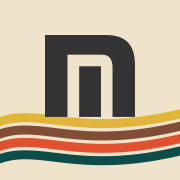
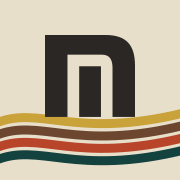
feat(design): move the palette to dark roast
Oxblood, forest, ochre and walnut on a deeper paper, replacing a
brighter set whose four-band ribbon read as adhesive car stripes rather
than print — the old mustard was a near-primary yellow and carried most
of that on its own.

Picked from three candidates rendered against the real homepage rather
than swatched in isolation.

- Every colour gained contrast headroom. Rust went from 3.05:1 to
  4.07:1, so display type no longer sits 0.05 above its floor, and the
  tightest deep moved 4.65 → 5.59
- --color-crate was a literal copy of --color-orange rather than a
  var() alias, so a palette change would have left it behind — and
  check:contrast validates crate on its own, so nothing would have
  caught it. Now aliased
- theme-color in Layout.astro and both colours in site.webmanifest are
  the only hardcoded hexes left in the project, because neither can read
  a CSS variable. check:contrast now asserts all three match
  --color-paper instead of trusting them to be updated by hand
- Regenerated the seven committed assets. Regenerating surfaced that
  build-og.mjs still drew the wordmark's full stop, which Logo.astro
  dropped — the share image had been stale since that change, since
  nothing regenerates it automatically

Changed region(s): [[0.0, 0.75, 1.0, 0.8611]]

diff --git a/src/styles/globals.css b/src/styles/globals.css
@@ -1,36 +1,47 @@
 @import "tailwindcss";
 
 @theme {
-  /* Warmer, earthier palette: rust, deep teal, mustard and brown on a lighter
-     paper. Paper is lighter than the original comp cream — partly to match the
-     newer mockup, and partly because at the old #f0dbb7 the rust only reached
-     2.87:1, below even the 3:1 large-text floor. Lightening the ground fixes
-     that without touching the brand colours themselves. */
-  --color-paper: #efe3cc;
-  --color-paper-tint: #f7f1e4;
-  --color-ink: #333333;
-  --color-red: #e0522f;
-  --color-blue: #0c4c49;
-  --color-gold: #e1b537;
-  --color-orange: #804d37;
-  --color-signal: #2c591c;
+  /* Dark roast: oxblood, forest, ochre and walnut on a slightly deeper paper.
+     Replaces a brighter set whose four-band ribbon read as adhesive car stripes
+     rather than print — the old mustard was a near-primary yellow and carried
+     most of that on its own.
+
+     The move also bought headroom everywhere. Rust went from 3.05:1 to 4.07:1,
+     so display type no longer sits 0.05 above its floor, and the deeps cleared
+     4.65 → 5.76. Verified by `pnpm check:contrast`. */
+  --color-paper: #e8dfcb;
+  --color-paper-tint: #f2ebdf;
+  --color-ink: #2b2724;
+  --color-red: #b8442a;
+  --color-blue: #14423f;
+  --color-gold: #c9a23a;
+  --color-orange: #6d4630;
+  --color-signal: #2f5423;
 
   /* Accessible counterparts, same hue and saturation, darkened until they clear
-     4.5:1 on paper. The brand colours are display colours: rust is 3.05:1 and
-     mustard 1.52:1 — fine for large type and fills, but they fail AA at label
-     size, and this design sets most of its text at label size. So: bright for
-     display type and graphics, deep for anything small.
+     4.5:1 on paper. The brand colours are display colours: ochre is 1.82:1 —
+     fine for large type and fills, but nowhere near AA at label size, and this
+     design sets most of its text at label size. So: bright for display type and
+     graphics, deep for anything small.
+
+     Rust now clears 4.5:1 on its own, so `red-deep` is a smaller step down than
+     it used to be — kept as its own token rather than aliased, because the two
+     still do different jobs and the display value is the one free to move if
+     the palette shifts again.
 
      Teal and brown already clear 4.5:1, so they are their own deep variants —
      aliased rather than duplicated so a change to one can't desync the other.
      Verified by `pnpm check:contrast`. */
-  --color-red-deep: #ae4024;
-  --color-gold-deep: #78611d;
+  --color-red-deep: #94331e;
+  --color-gold-deep: #67531f;
   --color-orange-deep: var(--color-orange);
   --color-blue-deep: var(--color-blue);
 
-  /* Ships the "handle with care" bar; paper on this is 5.45:1. */
-  --color-crate: #804d37;
+  /* Ships the "handle with care" bar; paper on this is 6.17:1. Aliased rather
+     than repeated: this used to be a literal copy of orange, so a palette
+     change could leave it behind — and the contrast check wouldn't have caught
+     it, because it validates crate against paper on its own. */
+  --color-crate: var(--color-orange);
 
   /* astro:fonts emits --font-anton / --font-jetbrains; map them onto Tailwind's
      font scale so `font-display` and `font-mono` resolve to the self-hosted faces. */

diff --git a/TODO.md b/TODO.md
@@ -48,10 +48,13 @@ undecided — think before doing.
 
 ## Visual direction
 
-- [ ] Consider making the colour palette a little less "amazon retro adhesive
-      car stripes" — **not done.** A palette change means re-running
-      `build:icons` and `build:og`, and `build:og` rasterises text with whatever
-      font the machine has, so the share image can shift. Wanted you in the room
+- [x] Consider making the colour palette a little less "amazon retro adhesive
+      car stripes" — went to **dark roast**: oxblood, forest, ochre and walnut
+      on a deeper paper, picked from three candidates shot against the real
+      homepage. Every colour gained contrast headroom; rust went from 3.05:1 to
+      4.07:1, so display type no longer sits 0.05 above its floor. Icons and the
+      share image regenerated. The ochre band is still the brightest thing on
+      the page — if it keeps reading as a stripe, that's the one token to pull
 - [x] Consider how to make the site a little more grimy — the fine paper grain
       already existed; added a coarse low-frequency mottle over it, which is
       what reads as uneven absorption rather than screen noise
